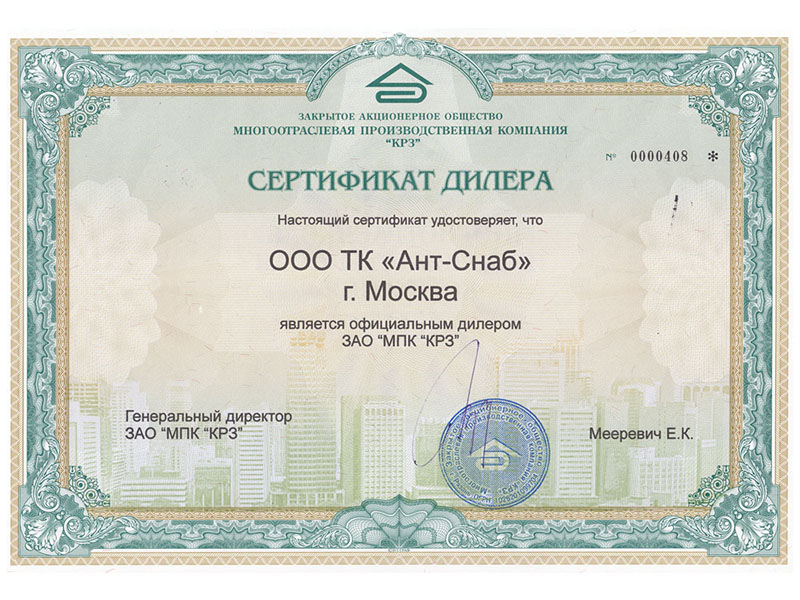
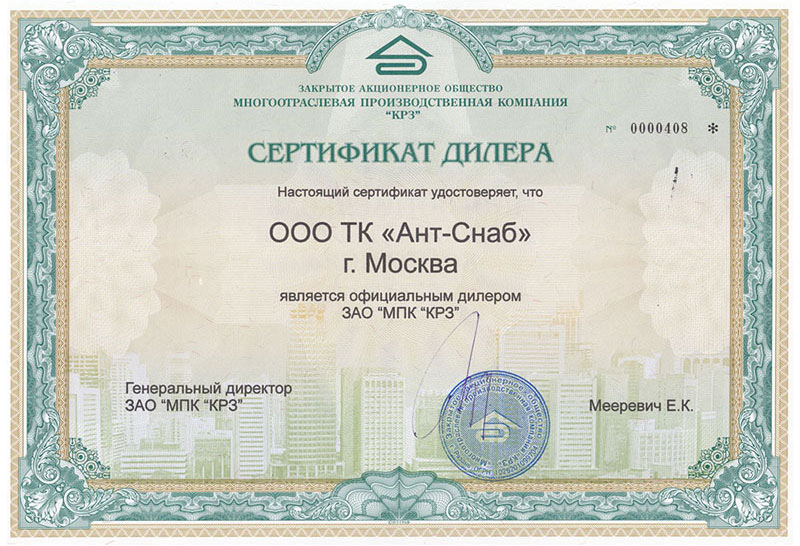
fix pack 26.01.2019(1)

diff --git a/src/styles/_main.scss b/src/styles/_main.scss
@@ -987,13 +987,13 @@ div.title:after {
     margin: 0;
     font-size: 15px;
     color: #000000;
-    line-height: 24px;
+    line-height: 20px;
     text-align: justify;
     p{
         display: block;
         font-size: 15px;
         color: #000000;
-        line-height: 24px;
+        line-height: 20px!important;
         margin-bottom: 12px;
         text-align: justify;
         a{
@@ -2480,6 +2480,7 @@ button.show-more{
             }
         }
         a.active{
+            cursor:auto;
             background: #d3a06d !important;
             background-image: none !important;
             color: #fff;
@@ -2800,7 +2801,7 @@ button.show-more{
                     }
                 }
                 .prod-name {
-                    margin-bottom: 10px;
+                    margin-bottom: 5px;
                 }
                 p{
                     display: block;
@@ -3266,20 +3267,22 @@ button.show-more{
         color: #000000;
         margin-bottom: 20px;
     }
+    p{margin-top:12px;margin-bottom:12px;line-height:20px!important;}
     ul{
+        margin-top:12px;margin-bottom:12px;
         li{
             position: relative;
-            font-size: 13px;
-            color: #666666;
+            font-size: 14px;
+            color: #000;
             line-height: 18px;
             padding-left: 23px;
-            margin-bottom: 15px;
+            margin-bottom: 10px;
             &:after{
                 content: '';
                 display: block;
                 clear: both;
                 position: absolute;
-                top: 50%;
+                top: 9px;
                 left: 0;
                 width: 4px;
                 height: 4px;
@@ -3376,7 +3379,7 @@ button.show-more{
         display: block;
         font-size: 14px;
         line-height: 24px;
-        color: #666666;
+        color: #000;
         margin-bottom: 20px;
     }
 }
@@ -3792,9 +3795,11 @@ a.print{
         padding-left: 25px;
         padding-right: 0;
     }
+    .qnt-widget input.qnt{min-width:40px;}
     .tab-block ul li .catalog-description{
-        padding-left: 195px;
+        /*padding-left: 195px;*/
     }
+    
     .tab-block ul li .catalog-img{
         width: 180px;
     }
@@ -4334,9 +4339,10 @@ a.print{
         bottom: 45px;
     }
     .tab-block ul li .catalog-img {
-        width: 100%;
-        /*position: static;*/
+        /*width: 100%;
+        position: static;
         height: 260px;
+        */
     }
     .tab-block ul li .catalog-description {
         padding: 20px 15px 20px 15px;
@@ -4893,10 +4899,7 @@ a.buy{display:inline-block;vertical-align: top;}
 .success_content{font-size:16px;margin-top: 30px;}
 .success_content b{font-weight:bold;}
 .success_content p{margin-bottom:4px;}
-.about_sertificats{position:relative;overflow:hidden;margin-bottom:40px;}
-.about_sert_img{float:left;width:50%;}
-.about_sert_img a{display:block;text-align:center;}
-.about_sert_img img{max-height:350px;width:auto!important;max-width:300px;}
+
 .tovar_main_image{border: 2px solid #EFEEEC;display:block;}
 .tovar_main_image a{display:block;text-align:center;}
 .tovar_mini_image{border: 2px solid #EFEEEC;display:block;width:24%;}
@@ -4923,6 +4926,25 @@ a.buy{display:inline-block;vertical-align: top;}
 .tab-block.tab-block2 .qnt-widget{margin-right:0;}
 .notinstock{margin-bottom: 4px;font-weight: bold;font-size: 13px;}
 
+.about_sertificats{margin-bottom:40px;align-items: center;
+    display: -webkit-box;
+	display: -moz-box;
+	display: -ms-flexbox;
+    display: -webkit-flex;
+    justify-content: space-between;
+    -webkit-justify-content: space-between;
+    -ms-flex-pack: justify;
+    justify-content: space-between;
+    -webkit-box-pack: justify;
+}
+/*.about_sert_img{float:left;width:50%;}
+.about_sert_img a{display:block;text-align:center;}
+.about_sert_img img{max-height:350px;width:auto!important;max-width:300px;height:auto;}
+*/
+.about_sertificats_col{width: 48%;text-align: center;}
+.about_sertificats_col img{max-width:100%;height:auto;}
+.recalc.intotal span{white-space: nowrap;line-height: 25px;}
+.noty_theme__relax.noty_type__warning{line-height:20px;color:#000;border:1px solid #000;font-weight:bold;}
 @media screen and (max-width: 1200px){
     .price-list .select-list ul.list>li{
         width: 100%;
@@ -4946,6 +4968,14 @@ a.buy{display:inline-block;vertical-align: top;}
     }   
 }
 @media screen and (max-width: 640px){
+    .tab-block .catalog-img{
+        width:auto;height:auto;position:relative;top:initial;margin-top:0;
+        margin: 10px auto;
+    }
+    .tab-block ul li .catalog-img img{max-width:100%;}
+    .tab-block ul li .catalog-img:after{display:none;}
+    .select_view_switch{display:none;}
+    .tab-block ul li .catalog-description p{text-align:left;}
     .review-block .review {
         padding: 20px 15px 32px;
     }

diff --git a/public_html/app/Override/Controller/Admin/Extension/Module/PriceController.php b/public_html/app/Override/Controller/Admin/Extension/Module/PriceController.php
@@ -13,8 +13,10 @@ use WS\Override\Controller\Admin\Extension\AModuleController;
 
 class PriceController extends AModuleController
 {
+    /*
     const CONFIG_KEY_PDF_ROUTE = 'price_pdfroute';
     const CONFIG_KEY_XLS_ROUTE = 'price_xlsroute';
+    */
 
     /**родительская категория для первого селекта прайс-листа*/
     const START_CATEGORY_PARENT_ID_DEFAULT = 71;
@@ -33,13 +35,18 @@ class PriceController extends AModuleController
     public function index()
     {
         parent::commonIndex();
-
+        /*
         $this->data['entry_pdfroute'] = $this->language->get('entry_pdfroute');
         $this->data['entry_xlsroute'] = $this->language->get('entry_xlsroute');    
+        */
+
         $this->data['entry_rootcategory'] = $this->language->get('entry_rootcategory');    
         $this->data['entry_startcategory'] = $this->language->get('entry_startcategory');
 
+        $this->data['entry_download'] = $this->language->get('entry_download');
+
         // entry
+        /*
         if (isset($this->request->post[static::CONFIG_KEY_PDF_ROUTE])) {
             $this->data[static::CONFIG_KEY_PDF_ROUTE] = $this->request->post[static::CONFIG_KEY_PDF_ROUTE];
         } else {
@@ -51,6 +58,7 @@ class PriceController extends AModuleController
         } else {
             $this->data[static::CONFIG_KEY_XLS_ROUTE] = $this->config->get(static::CONFIG_KEY_XLS_ROUTE);
         }
+        */
 
         if (isset($this->request->post[static::CONFIG_KEY_START_CATEGORY_PARENT_ID])) {
             $this->data[static::CONFIG_KEY_START_CATEGORY_PARENT_ID] = $this->request->post[static::CONFIG_KEY_START_CATEGORY_PARENT_ID];
@@ -70,12 +78,17 @@ class PriceController extends AModuleController
     public function install()
     {
         parent::install();
-
+        /*
         $sql = "insert into " . DB_PREFIX . "_setting (store_id, code, `key`, `value`, serialized) values" .
             " (0, '" . $this->getCode() . "', '" . static::CONFIG_KEY_PDF_ROUTE . "','', false), " .
             " (0, '" . $this->getCode() . "', '" . static::CONFIG_KEY_XLS_ROUTE . "','', false), " .
             " (0, '" . $this->getCode() . "', '" . static::CONFIG_KEY_START_CATEGORY_PARENT_ID . "',".static::START_CATEGORY_PARENT_ID_DEFAULT.", false), " .
             " (0, '" . $this->getCode() . "', '" . static::CONFIG_KEY_START_CATEGORY_ID . "'," . static::START_CATEGORY_ID_DEFAULT . ", false), ";
+        */
+        $sql = "insert into " . DB_PREFIX . "_setting (store_id, code, `key`, `value`, serialized) values" .
+            " (0, '" . $this->getCode() . "', '" . static::CONFIG_KEY_START_CATEGORY_PARENT_ID . "',".static::START_CATEGORY_PARENT_ID_DEFAULT.", false), " .
+            " (0, '" . $this->getCode() . "', '" . static::CONFIG_KEY_START_CATEGORY_ID . "'," . static::START_CATEGORY_ID_DEFAULT . ", false), ";
+
         return $this->db->query($sql);
     }
 

diff --git a/public_html/app/Override/Controller/Site/Checkout/CartController.php b/public_html/app/Override/Controller/Site/Checkout/CartController.php
@@ -613,12 +613,19 @@ class CartController extends \ControllerCheckoutCart
             $data['personaldata'] = $this->url->link('information/information', 'information_id=11', '', true);
             
 
-            /**Тест на странице "оформление доставки */
+            /**Текст на странице "оформление доставки" */
             $this->load->model('catalog/information');
             $information_id = 12;
             $information_info = $this->model_catalog_information->getInformation($information_id);
             $data['cart_text']=html_entity_decode($information_info['description'], ENT_QUOTES, 'UTF-8');
 
+            /**Текст для пустой корзины */
+            $this->load->model('catalog/information');
+            $information_id = 17;
+            $information_info = $this->model_catalog_information->getInformation($information_id);
+            $data['empty_cart']=html_entity_decode($information_info['description'], ENT_QUOTES, 'UTF-8');
+
+            //$data['empty_cart'] = $this->language->get('empty_cart');
 
             $this->load->model('extension/extension');
 
@@ -863,13 +870,19 @@ class CartController extends \ControllerCheckoutCart
 					'href'        => $this->url->link('product/product', 'product_id=' . $result['product_id'])
 				);
 			}*/
-            $data['empty_cart'] = $this->language->get('empty_cart');
+            
 
             $this->response->setOutput($this->load->view('checkout/cart', $data));
         } else {
             $data['heading_title'] = $this->language->get('heading_title');
 
-            $data['text_error'] = $this->language->get('text_empty');
+            /**Текст для пустой корзины */
+            $this->load->model('catalog/information');
+            $information_id = 17;
+            $information_info = $this->model_catalog_information->getInformation($information_id);
+            $data['text_error']=html_entity_decode($information_info['description'], ENT_QUOTES, 'UTF-8');
+
+            //$data['text_error'] ="ok";// $this->language->get('text_empty');
 
             $data['button_continue'] = $this->language->get('button_continue');
 

diff --git a/public_html/export/exchange1c.php b/public_html/export/exchange1c.php
@@ -60,7 +60,7 @@ if ($config->get('exchange1c_log_filename')) {
 	$log = new Log($config->get('config_error_filename'));
 }
 $registry->set('log', $log);
-
+echo $config->get('exchange1c_log_filename');
 // ДЛЯ ОТЛАДКИ АВТОРИЗАЦИИ
 //$server_info = print_r($_SERVER, true);
 //$log->write($server_info);

diff --git a/public_html/admin/language/ru-ru/extension/module/price.php b/public_html/admin/language/ru-ru/extension/module/price.php
@@ -19,3 +19,6 @@ $_['entry_startcategory'] = 'Категория первого селекта id
 // Error
 $_['error_permission'] = 'У вас нет права';
 $_['error_empty_line'] = 'Предупреждение: пустые значения';
+
+$_['entry_download'] = 'Загрузки';
+
